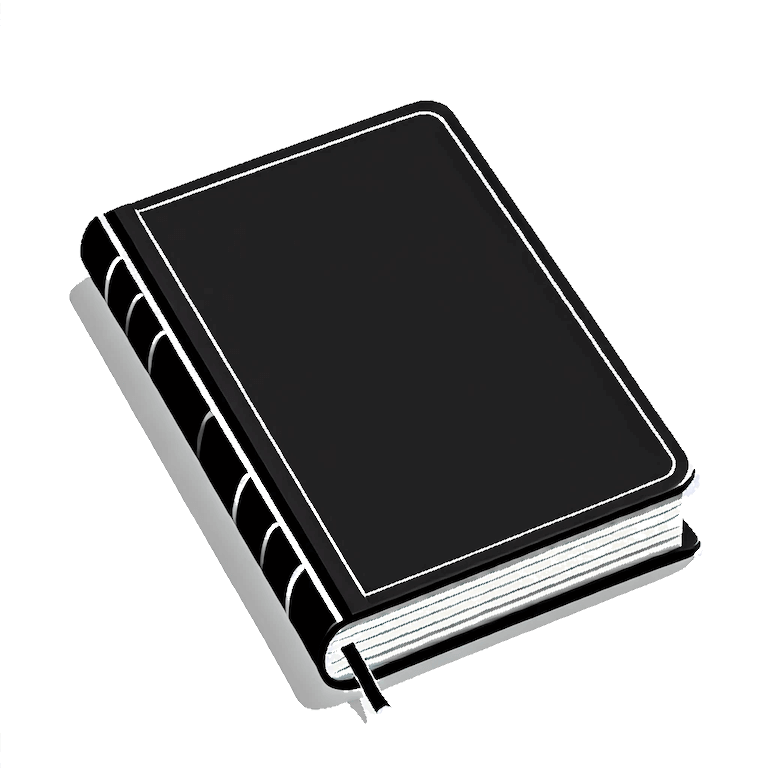
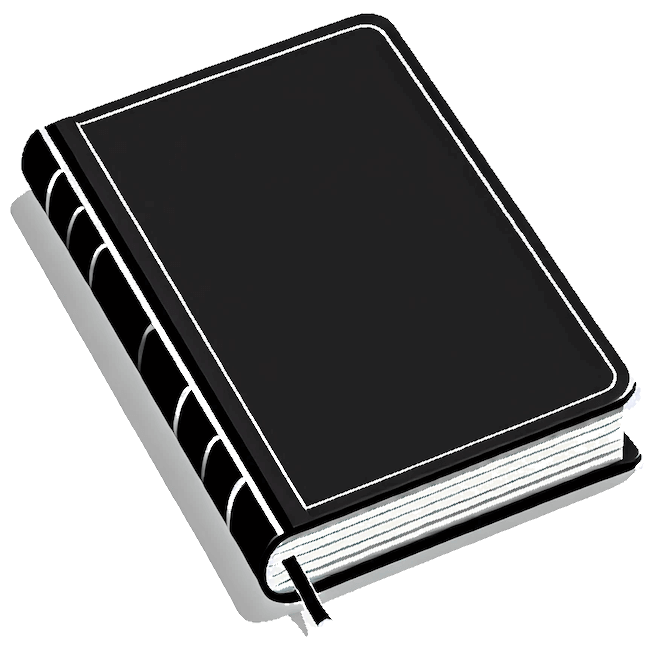
Improve journal image layout

Changed region(s): [[0.0, 0.0, 0.9771, 0.9907]]

diff --git a/src/more-pages/annex-scientific-basis.js b/src/more-pages/annex-scientific-basis.js
@@ -1,17 +1,16 @@
-import d3 from 'd3';
-import _ from 'lodash';
+import d3 from "d3";
+import _ from "lodash";
 
-import * as utils from './utils.js';
-import dispatcher from '../dispatcher.js';
-import sassVars from '../../scss/variables.json';
+import * as utils from "./utils.js";
+import dispatcher from "../dispatcher.js";
+import sassVars from "../../scss/variables.json";
 
 export default {
-
 	isInited: false,
 	wrapper: null,
 
 	init: function (containerNode, data) {
-		this.data = data.annex['scientific-basis'];
+		this.data = data.annex["scientific-basis"];
 
 		this.wrapper = containerNode;
 
@@ -19,17 +18,23 @@ export default {
 		this.isInited = true;
 	},
 
-	setContent: function() {
+	setContent: function () {
 		if (!this.wrapper) return;
-		
+
 		// intro
-		this.wrapper.appendChild(utils.makeTable(this.data.desc, []));
+		const intro = document.createElement("div");
+		intro.classList.add("intro");
+		const image = document.createElement("img");
+		image.src = "img/journal.png";
+		intro.appendChild(utils.makeTable(this.data.desc, []));
+		intro.appendChild(image);
+		this.wrapper.appendChild(intro);
 		// survey results
-		this.wrapper.appendChild(utils.makeTable(this.data.contentIntro, this.data.content));
+		this.wrapper.appendChild(
+			utils.makeTable(this.data.contentIntro, this.data.content)
+		);
 		// footer content
 		this.wrapper.appendChild(utils.makeTable(this.data.footer[0], []));
 		this.wrapper.appendChild(utils.makeTable(this.data.footer[1], []));
 	},
-
-
 };

diff --git a/scss/_layout.scss b/scss/_layout.scss
@@ -1089,11 +1089,21 @@ svg {
 	padding: 90px 100px;
 	max-width: 1300px;
 }
-#learn_more-fp-section img {
-	max-width: 300px;
-	height: auto;
-	margin: 0 auto;
-	display: block;
+#learn_more-fp-section .intro {
+	display: flex;
+	flex-direction: row;
+	margin-bottom: 30px;
+	div {
+		width: 50%;
+		min-width: 200px;
+	}
+	img {
+		max-width: 250px;
+		height: auto;
+		margin: 0 auto;
+		display: block;
+		align-self: center;
+	}
 }
 
 #strategies-fp-section,
@@ -1338,6 +1348,19 @@ svg {
 			.upper {
 				padding-top: 1.25em;
 				font-size: 1em;
+			}
+		}
+	}
+	#learn_more-fp-section {
+		.intro {
+			display: block;
+			div {
+				width: auto;
+			}
+			img {
+				width: 60%;
+				max-width: 300px;
+				margin: 20px auto 0 auto;
 			}
 		}
 	}
@@ -1898,7 +1921,7 @@ h6 {
 				height: auto;
 				position: relative;
 			}
-			.learn_more-text{
+			.learn_more-text {
 				padding: 0 20px 60px 120px;
 			}
 			h1 {
@@ -1948,11 +1971,21 @@ h6 {
 		}
 	}
 	#strategies-fp-section .strategy-details__columns,
-	#learn_more .strategy-details__columns {
+	#learn_more-fp-section .strategy-details__columns {
 		grid-template-columns: 1fr 200px;
 		column-gap: 40px;
 		&:last-of-type p {
 			margin-bottom: 0;
+		}
+	}
+	#learn_more-fp-section {
+		.intro {
+			div {
+				width: 60%;
+			}
+			img {
+				max-width: 170px;
+			}
 		}
 	}
 }

diff --git a/scss/sections/_more.scss b/scss/sections/_more.scss
@@ -453,11 +453,6 @@
 		.annex-table-wrapper {
 			margin-top: 0;
 		}
-		img {
-			width: 100%;
-			margin-bottom: 2rem;
-			margin-top: 1rem;
-		}
 		td {
 			background-color: transparent;
 		}
@@ -475,6 +470,15 @@
 			tr {
 				border-bottom: 1px solid #000;
 			}
+		}
+	}
+}
+#strategies-fp-section {
+	.wrapper {
+		img {
+			width: 100%;
+			margin-bottom: 2rem;
+			margin-top: 1rem;
 		}
 	}
 }

diff --git a/src/index.html b/src/index.html
@@ -632,7 +632,6 @@
             <div class="section" id="learn_more-fp-section">
                 <div class="section-graphics scroll-parent">
                     <div class="learn_more-text">
-                        <img src="img/journal.png" />
                     </div>
                 </div>
                 <div class="section-text">
